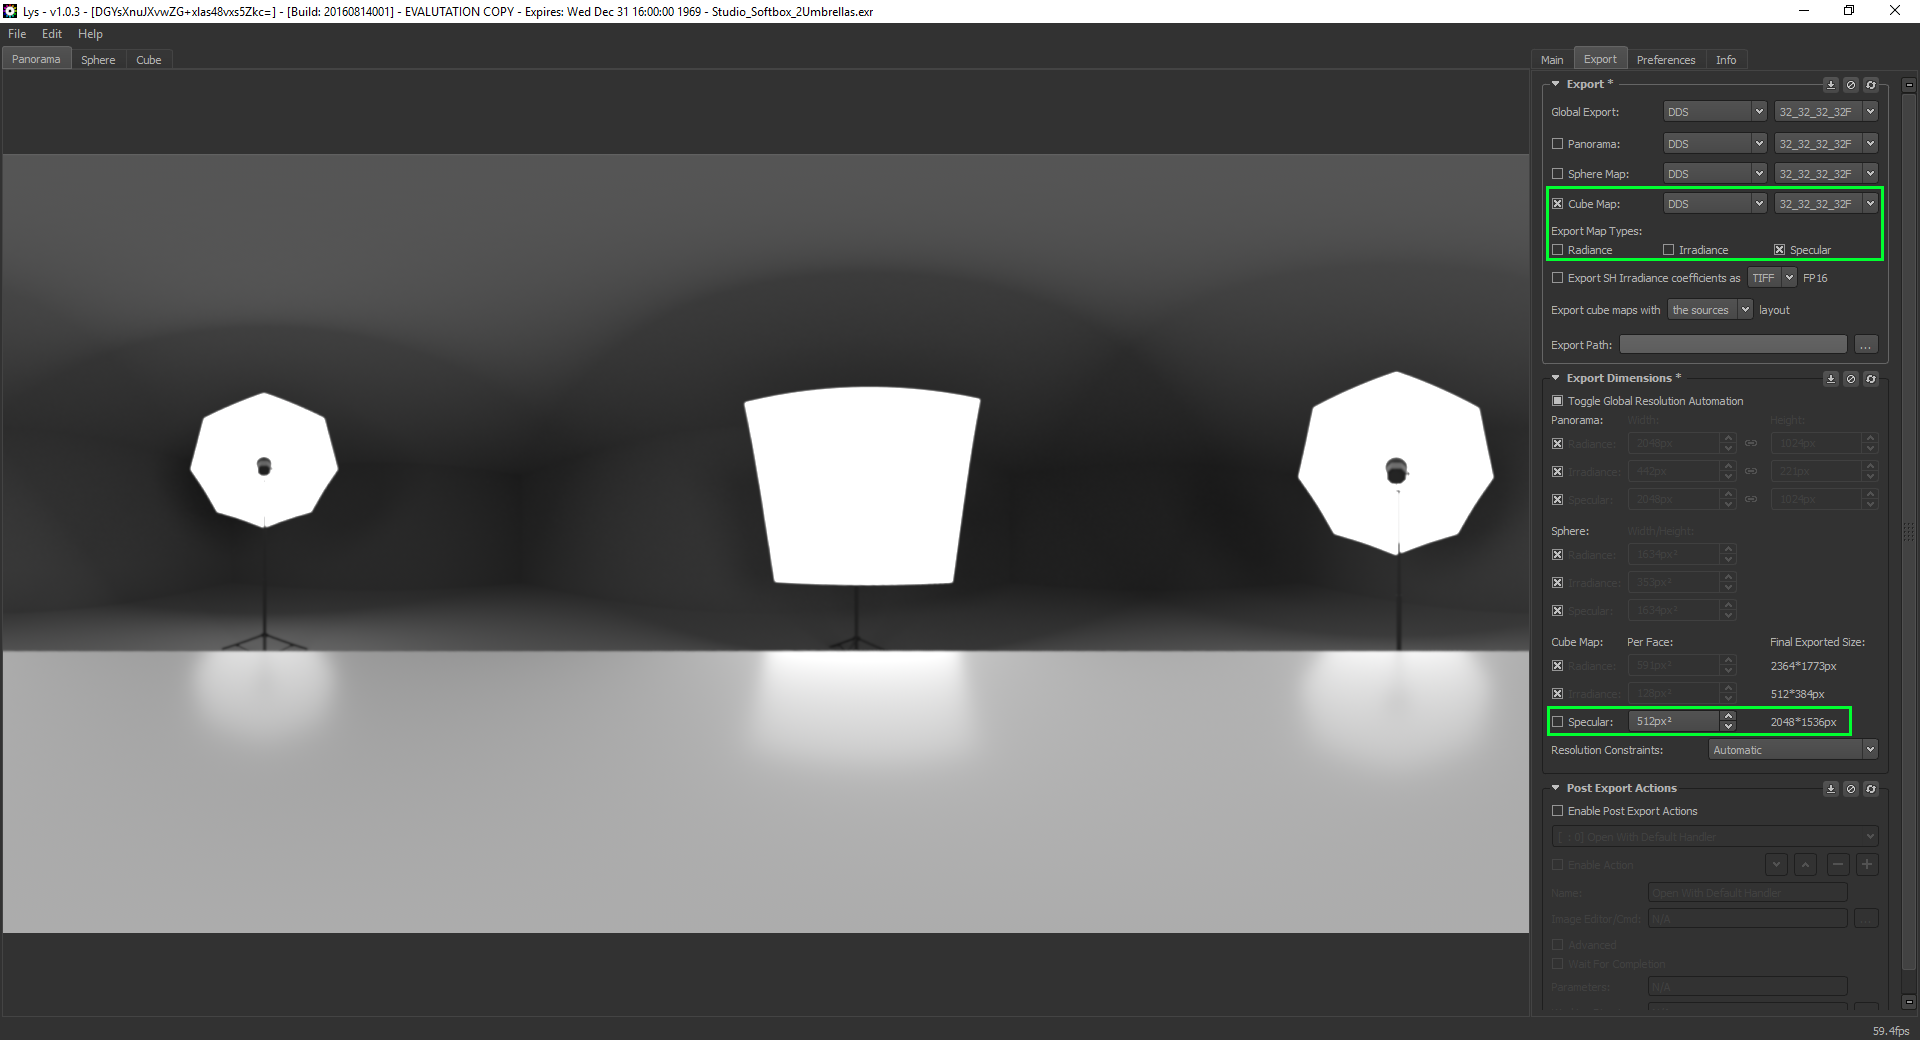
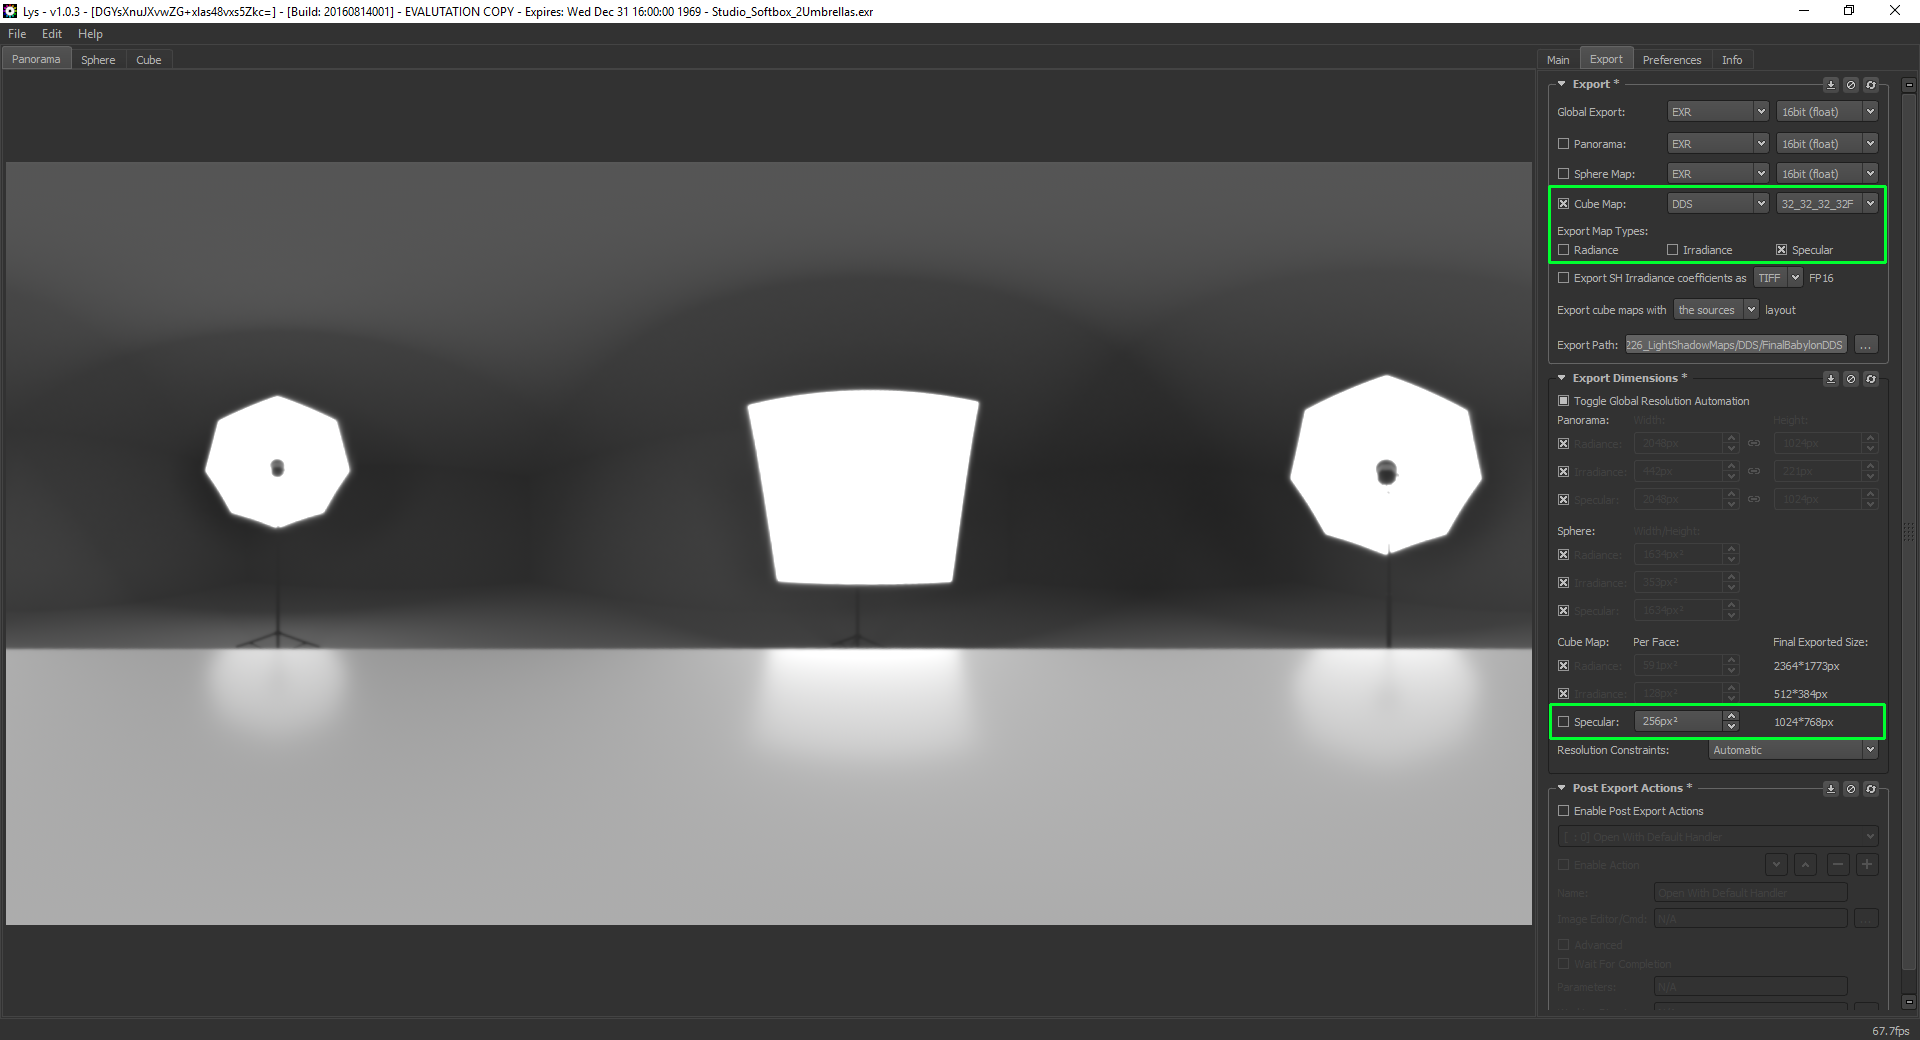
Enhance Env Generation

diff --git a/content/How_To/environment/Physically_Based_Rendering.md b/content/How_To/environment/Physically_Based_Rendering.md
@@ -173,9 +173,13 @@ Once done, in the preferences tab, please set the legacy dds mode (Four CC is no
 
 ![Preferences](/img/How_To/environment/Lys_DefaultSettings_Prefs.png)
 
-Finally, in the export window, you can chose the appropriate options:
+In the export window, you can chose the appropriate options (setting DDS to 32 bit should be done last as we have seen it defaulting back to 8 bits otherwise):
 
-![Export](/img/How_To/environment/Lys_DefaultSettings_Export.png)
+![ExportSettings](/img/How_To/environment/Lys_DefaultSettings_Export.png)
+
+Finally, you can export your texture through the main tab:
+
+![Export](/img/How_To/environment/Lys_DefaultSettings_MainExportButton.png)
 
 You are all set and ready to use the exported texture in the ```CubeTexture.CreateFromPrefilteredData``` function.
 
